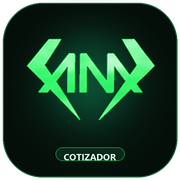
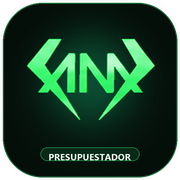
feat(security): update private URLs to /panel-caja-1611 and /presupuestador-1611 with Presupuestador branding

Changed region(s): [[0.2222, 0.8056, 0.7778, 0.9167]]

diff --git a/middleware.ts b/middleware.ts
@@ -45,8 +45,9 @@ export function middleware(request: NextRequest) {
       return res;
     }
 
-    // Si acceden al cotizador: '/cotizador' o '/presupuesto'
-    if (pathname === "/cotizador" || pathname === "/presupuesto") {
+    // Rutas protegidas / discretas para las herramientas del taller (no expuestas en URLs genéricas)
+    // 1. Presupuestador: '/presupuestador-1611' (y '/cotizador-1611')
+    if (pathname === "/presupuestador-1611" || pathname === "/cotizador-1611") {
       const url = new URL("/presupuesto", request.url);
       url.searchParams.set("slug", amSlug);
       url.searchParams.set("taller", amSlug);
@@ -55,8 +56,18 @@ export function middleware(request: NextRequest) {
       return res;
     }
 
-    // Si acceden a la ficha de recepción: '/checkin' o '/recepcion'
-    if (pathname === "/checkin" || pathname === "/recepcion") {
+    // 2. Panel de Taller y Caja: '/panel-caja-1611' (y '/taller-1611')
+    if (pathname === "/panel-caja-1611" || pathname === "/taller-1611") {
+      const url = new URL("/taller", request.url);
+      url.searchParams.set("slug", amSlug);
+      url.searchParams.set("taller", amSlug);
+      const res = NextResponse.rewrite(url);
+      res.cookies.set("black_line_active_slug", amSlug, { path: "/" });
+      return res;
+    }
+
+    // 3. Ficha de recepción / Check-in: '/checkin-1611' (y '/checkin')
+    if (pathname === "/checkin-1611" || pathname === "/checkin" || pathname === "/recepcion") {
       const url = new URL("/checkin", request.url);
       url.searchParams.set("slug", amSlug);
       url.searchParams.set("taller", amSlug);
@@ -65,14 +76,16 @@ export function middleware(request: NextRequest) {
       return res;
     }
 
-    // Si acceden al panel de control de taller: '/panel' o '/taller' o '/gestion'
-    if (pathname === "/panel" || pathname === "/taller" || pathname === "/gestion") {
-      const url = new URL("/taller", request.url);
-      url.searchParams.set("slug", amSlug);
-      url.searchParams.set("taller", amSlug);
-      const res = NextResponse.rewrite(url);
-      res.cookies.set("black_line_active_slug", amSlug, { path: "/" });
-      return res;
+    // Si alguien intenta adivinar las URLs obvias genéricas (/panel, /cotizador, /taller, /presupuesto, /gestion)
+    // redirigir silenciosamente al inicio público '/' para proteger la privacidad del taller
+    if (
+      pathname === "/panel" ||
+      pathname === "/taller" ||
+      pathname === "/cotizador" ||
+      pathname === "/presupuesto" ||
+      pathname === "/gestion"
+    ) {
+      return NextResponse.redirect(new URL("/", request.url));
     }
   }
 

diff --git a/app/presupuesto/layout.tsx b/app/presupuesto/layout.tsx
@@ -1,8 +1,8 @@
 import type { Metadata } from "next";
 
 export const metadata: Metadata = {
-  title: "Cotizador de Servicios — AM Estética Vehicular",
-  description: "Cotizador interactivo y generador de presupuestos oficiales",
+  title: "Presupuestador — AM Estética Vehicular",
+  description: "Presupuestador rápido de servicios y presupuestos oficiales",
   manifest: "/manifest-cotizador.json",
   icons: {
     icon: [
@@ -16,7 +16,7 @@ export const metadata: Metadata = {
   appleWebApp: {
     capable: true,
     statusBarStyle: "black-translucent",
-    title: "Cotizador AM",
+    title: "Presupuestador AM",
   },
 };
 

diff --git a/scratch/generate_am_assets.py b/scratch/generate_am_assets.py
@@ -1,0 +1,278 @@
+import os
+import colorsys
+import math
+from PIL import Image, ImageDraw, ImageFont, ImageFilter
+import numpy as np
+
+BASE_DIR = r"c:\Users\Jay\Documents\SecondBrain\Code\black-line-detailing"
+PUBLIC_DIR = os.path.join(BASE_DIR, "public")
+SCRATCH_DIR = os.path.join(BASE_DIR, "scratch")
+
+# Load base clean transparent diamond
+diamond_path = os.path.join(SCRATCH_DIR, "diamond_clean_transparent.png")
+diamond_orig = Image.open(diamond_path).convert("RGBA")
+
+# Font helpers
+def get_font(size, bold=True):
+    try:
+        font_path = "C:/Windows/Fonts/segoeuib.ttf" if bold else "C:/Windows/Fonts/segoeui.ttf"
+        return ImageFont.truetype(font_path, size)
+    except:
+        return ImageFont.load_default()
+
+# 1. Color shift helper for diamond emblem
+def recolor_emblem(img, target_hue):
+    arr = np.array(img).astype(float)
+    rgb = arr[:, :, :3] / 255.0
+    alpha = arr[:, :, 3]
+    
+    val = np.max(rgb, axis=2)
+    sat = (val - np.min(rgb, axis=2)) / (val + 1e-6)
+    
+    out_rgb = np.zeros_like(rgb)
+    h, w = img.size[1], img.size[0]
+    for y in range(h):
+        for x in range(w):
+            if alpha[y, x] > 5:
+                r, g, b = colorsys.hsv_to_rgb(target_hue, sat[y, x], val[y, x])
+                out_rgb[y, x] = [r, g, b]
+                
+    out_arr = np.zeros_like(arr)
+    out_arr[:, :, :3] = out_rgb * 255.0
+    out_arr[:, :, 3] = alpha
+    return Image.fromarray(np.clip(out_arr, 0, 255).astype(np.uint8))
+
+diamond_cyan = diamond_orig
+diamond_emerald = recolor_emblem(diamond_orig, 0.38) # Emerald Green (~137°)
+
+# 2. Generator for App Icons (512x512)
+def create_app_icon(mode="main", size=512):
+    # mode: "main" (web/search console), "taller" (cyan/indigo), "cotizador" (emerald)
+    img = Image.new("RGBA", (size, size), (0, 0, 0, 0))
+    draw = ImageDraw.Draw(img)
+    
+    if mode == "taller":
+        bg_center = (12, 22, 38)
+        bg_edge = (6, 9, 15)
+        glow_color = (0, 190, 255, 65)
+        border_color = (0, 180, 255, 120)
+        badge_bg = (10, 28, 48, 230)
+        badge_border = (0, 200, 255, 180)
+        badge_text_color = (230, 245, 255)
+        badge_text = "TALLER & CAJA"
+        active_diamond = diamond_cyan
+    elif mode == "cotizador":
+        bg_center = (10, 32, 22)
+        bg_edge = (5, 15, 10)
+        glow_color = (16, 217, 140, 65)
+        border_color = (34, 197, 94, 120)
+        badge_bg = (12, 42, 26, 230)
+        badge_border = (34, 197, 94, 180)
+        badge_text_color = (235, 255, 242)
+        badge_text = "PRESUPUESTADOR"
+        active_diamond = diamond_emerald
+    else: # "main"
+        bg_center = (10, 18, 30)
+        bg_edge = (5, 8, 14)
+        glow_color = (0, 195, 255, 70)
+        border_color = (0, 180, 255, 110)
+        badge_text = None
+        active_diamond = diamond_cyan
+        
+    # Draw rounded squircle / background
+    corner_r = int(size * 0.22)
+    # radial background on temp image
+    bg = Image.new("RGB", (size, size), bg_edge)
+    for y in range(size):
+        for x in range(size):
+            dx = (x - size / 2) / (size / 2)
+            dy = (y - size / 2) / (size / 2)
+            dist = min(1.0, math.sqrt(dx * dx + dy * dy))
+            r = int(bg_center[0] * (1 - dist) + bg_edge[0] * dist)
+            g = int(bg_center[1] * (1 - dist) + bg_edge[1] * dist)
+            b = int(bg_center[2] * (1 - dist) + bg_edge[2] * dist)
+            bg.putpixel((x, y), (r, g, b))
+            
+    # Rounded mask for squircle
+    mask = Image.new("L", (size, size), 0)
+    mask_draw = ImageDraw.Draw(mask)
+    margin = 8
+    mask_draw.rounded_rectangle([margin, margin, size - margin, size - margin], radius=corner_r, fill=255)
+    
+    img.paste(bg, (0, 0), mask)
+    
+    # Glow behind diamond
+    glow = Image.new("RGBA", (size, size), (0, 0, 0, 0))
+    glow_draw = ImageDraw.Draw(glow)
+    glow_r = int(size * 0.32)
+    cx, cy = size // 2, int(size * (0.44 if badge_text else 0.5))
+    glow_draw.ellipse([cx - glow_r, cy - glow_r, cx + glow_r, cy + glow_r], fill=glow_color)
+    glow = glow.filter(ImageFilter.GaussianBlur(radius=int(size * 0.12)))
+    img = Image.alpha_composite(img, glow)
+    
+    # Paste centered diamond
+    target_dw = int(size * 0.72)
+    target_dh = int(target_dw * (active_diamond.height / active_diamond.width))
+    diamond_resized = active_diamond.resize((target_dw, target_dh), Image.Resampling.LANCZOS)
+    
+    dx = (size - target_dw) // 2
+    dy = cy - (target_dh // 2)
+    img.alpha_composite(diamond_resized, (dx, dy))
+    
+    # Draw badge if tool icon
+    if badge_text:
+        badge_font = get_font(int(size * 0.052), bold=True)
+        # calculate text size
+        dummy = ImageDraw.Draw(img)
+        bbox = dummy.textbbox((0, 0), badge_text, font=badge_font)
+        tw = bbox[2] - bbox[0]
+        th = bbox[3] - bbox[1]
+        
+        bw = tw + int(size * 0.09)
+        bh = th + int(size * 0.04)
+        bx = (size - bw) // 2
+        by = int(size * 0.82)
+        
+        # badge layer
+        b_layer = Image.new("RGBA", (size, size), (0, 0, 0, 0))
+        b_draw = ImageDraw.Draw(b_layer)
+        b_draw.rounded_rectangle([bx, by, bx + bw, by + bh], radius=bh // 2, fill=badge_bg, outline=badge_border, width=2)
+        b_draw.text((bx + (bw - tw) // 2, by + (bh - th) // 2 - 2), badge_text, font=badge_font, fill=badge_text_color)
+        img = Image.alpha_composite(img, b_layer)
+        
+    # Draw subtle luxury border around the entire squircle
+    border_layer = Image.new("RGBA", (size, size), (0, 0, 0, 0))
+    b_draw = ImageDraw.Draw(border_layer)
+    b_draw.rounded_rectangle([margin, margin, size - margin, size - margin], radius=corner_r, outline=border_color, width=3)
+    img = Image.alpha_composite(img, border_layer)
+    
+    return img
+
+print("Generating App Icons...")
+# Generate App Icons
+icon_main_512 = create_app_icon("main", 512)
+icon_taller_512 = create_app_icon("taller", 512)
+icon_cotizador_512 = create_app_icon("cotizador", 512)
+
+# Save main favicons
+icon_main_512.save(os.path.join(PUBLIC_DIR, "favicon-am-512.png"))
+icon_main_512.resize((192, 192), Image.Resampling.LANCZOS).save(os.path.join(PUBLIC_DIR, "favicon-am-192.png"))
+icon_main_512.resize((48, 48), Image.Resampling.LANCZOS).save(os.path.join(PUBLIC_DIR, "favicon-am-48.png"))
+icon_main_512.resize((32, 32), Image.Resampling.LANCZOS).save(os.path.join(PUBLIC_DIR, "favicon-am-32.png"))
+icon_main_512.resize((16, 16), Image.Resampling.LANCZOS).save(os.path.join(PUBLIC_DIR, "favicon-am-16.png"))
+icon_main_512.resize((32, 32), Image.Resampling.LANCZOS).save(os.path.join(PUBLIC_DIR, "favicon-am.png"))
+icon_main_512.resize((180, 180), Image.Resampling.LANCZOS).save(os.path.join(PUBLIC_DIR, "apple-touch-icon-am.png"))
+
+# Multi-resolution ICO
+ico_sizes = [(16, 16), (32, 32), (48, 48), (64, 64)]
+ico_imgs = [icon_main_512.resize(s, Image.Resampling.LANCZOS) for s in ico_sizes]
+ico_imgs[0].save(os.path.join(PUBLIC_DIR, "favicon-am.ico"), format="ICO", sizes=ico_sizes)
+
+# Save tool icons
+icon_taller_512.save(os.path.join(PUBLIC_DIR, "icon-taller.png"))
+icon_taller_512.resize((180, 180), Image.Resampling.LANCZOS).save(os.path.join(PUBLIC_DIR, "apple-touch-icon-taller.png"))
+
+icon_cotizador_512.save(os.path.join(PUBLIC_DIR, "icon-cotizador.png"))
+icon_cotizador_512.resize((180, 180), Image.Resampling.LANCZOS).save(os.path.join(PUBLIC_DIR, "apple-touch-icon-cotizador.png"))
+
+print("Icons saved successfully!")
+
+# 3. Generator for WhatsApp Link Preview (1200x630 OG Banner)
+print("Generating WhatsApp OG Banner (1200x630)...")
+W, H = 1200, 630
+og = Image.new("RGB", (W, H), (6, 9, 14))
+
+# Create sleek dark gradient with radial spotlight on left
+for y in range(H):
+    for x in range(W):
+        # radial spotlight from (320, 315)
+        dx = (x - 320) / 450.0
+        dy = (y - 315) / 350.0
+        dist = math.sqrt(dx * dx + dy * dy)
+        glow = max(0.0, 1.0 - dist)
+        
+        # base gradient from left to right
+        base_t = x / float(W)
+        r = int(8 * (1 - base_t) + 4 * base_t + 18 * glow)
+        g = int(16 * (1 - base_t) + 7 * base_t + 45 * glow)
+        b = int(28 * (1 - base_t) + 12 * base_t + 75 * glow)
+        og.putpixel((x, y), (min(255, r), min(255, g), min(255, b)))
+
+og = og.convert("RGBA")
+
+# Draw high-end framing and ambient glow
+og_draw = ImageDraw.Draw(og)
+
+# Large ambient cyan glow behind the emblem
+glow_overlay = Image.new("RGBA", (W, H), (0, 0, 0, 0))
+glow_draw = ImageDraw.Draw(glow_overlay)
+glow_draw.ellipse([140, 140, 500, 500], fill=(0, 200, 255, 60))
+glow_overlay = glow_overlay.filter(ImageFilter.GaussianBlur(radius=60))
+og = Image.alpha_composite(og, glow_overlay)
+
+# Paste diamond emblem on left
+diamond_w = 420
+diamond_h = int(diamond_w * (diamond_cyan.height / diamond_cyan.width))
+diamond_og = diamond_cyan.resize((diamond_w, diamond_h), Image.Resampling.LANCZOS)
+emblem_x = 90
+emblem_y = (H - diamond_h) // 2
+og.alpha_composite(diamond_og, (emblem_x, emblem_y))
+
+# Draw text content on right side
+content_x = 550
+
+# Fonts
+font_tag = get_font(20, bold=True)
+font_title = get_font(42, bold=True)
+font_subtitle = get_font(24, bold=False)
+font_badge = get_font(18, bold=True)
+font_footer = get_font(20, bold=False)
+font_domain = get_font(22, bold=True)
+
+# Top badge: Location & Detailing
+tag_text = "VILLA MARÍA, CÓRDOBA • DETALLADO AUTOMOTRIZ"
+t_bbox = og_draw.textbbox((0, 0), tag_text, font=font_tag)
+t_w = t_bbox[2] - t_bbox[0]
+t_h = t_bbox[3] - t_bbox[1]
+tag_bg = [content_x, 80, content_x + t_w + 32, 80 + t_h + 18]
+og_draw.rounded_rectangle(tag_bg, radius=16, fill=(12, 28, 48, 220), outline=(0, 200, 255, 140), width=1)
+# cyan dot
+og_draw.ellipse([content_x + 12, 80 + 10, content_x + 20, 80 + 18], fill=(0, 220, 255))
+og_draw.text((content_x + 26, 80 + 8), tag_text, font=font_tag, fill=(180, 230, 255))
+
+# Main Title: 2 lines
+og_draw.text((content_x, 140), "AM CENTRO DE", font=font_title, fill=(255, 255, 255))
+og_draw.text((content_x, 192), "ESTÉTICA VEHICULAR", font=font_title, fill=(0, 210, 255))
+
+# Subtitle / Specialties
+og_draw.text((content_x, 260), "Tratamientos Cerámicos • Corrección de Pintura", font=font_subtitle, fill=(220, 230, 242))
+og_draw.text((content_x, 295), "Polarizados de Alta Gama • Protección PPF", font=font_subtitle, fill=(160, 185, 210))
+
+# 3 Feature Pills
+pills = [
+    ("🛡  Tratamientos 9H & Gyeon®", (15, 30, 50), (0, 180, 255, 100)),
+    ("✨  Pulido & Restauración Óptima", (15, 30, 50), (0, 180, 255, 100)),
+    ("💎  Turnos & Cotizaciones Online", (18, 40, 32), (34, 197, 94, 140)),
+]
+pill_y = 350
+for p_text, p_bg, p_border in pills:
+    p_box = og_draw.textbbox((0, 0), p_text, font=font_badge)
+    pw = p_box[2] - p_box[0] + 28
+    ph = p_box[3] - p_box[1] + 16
+    og_draw.rounded_rectangle([content_x, pill_y, content_x + pw, pill_y + ph], radius=12, fill=p_bg, outline=p_border, width=1)
+    og_draw.text((content_x + 14, pill_y + 7), p_text, font=font_badge, fill=(240, 245, 252))
+    pill_y += ph + 12
+
+# Bottom bar
+div_y = 540
+og_draw.line([content_x, div_y, W - 80, div_y], fill=(30, 48, 70), width=1)
+
+# Rating and domain
+og_draw.text((content_x, div_y + 18), "⭐ 5.0 en Google Reviews", font=font_footer, fill=(255, 205, 60))
+og_draw.text((W - 380, div_y + 18), "amesteticavehicular.com.ar", font=font_domain, fill=(0, 215, 255))
+
+# Save OG image as optimized JPEG (target < 250KB for WhatsApp)
+og_rgb = og.convert("RGB")
+og_path = os.path.join(PUBLIC_DIR, "og-am-centro.jpg")
+og_rgb.save(og_path, format="JPEG", quality=92, optimize=True)
+print("Saved og-am-centro.jpg, size:", os.path.getsize(og_path), "bytes")
